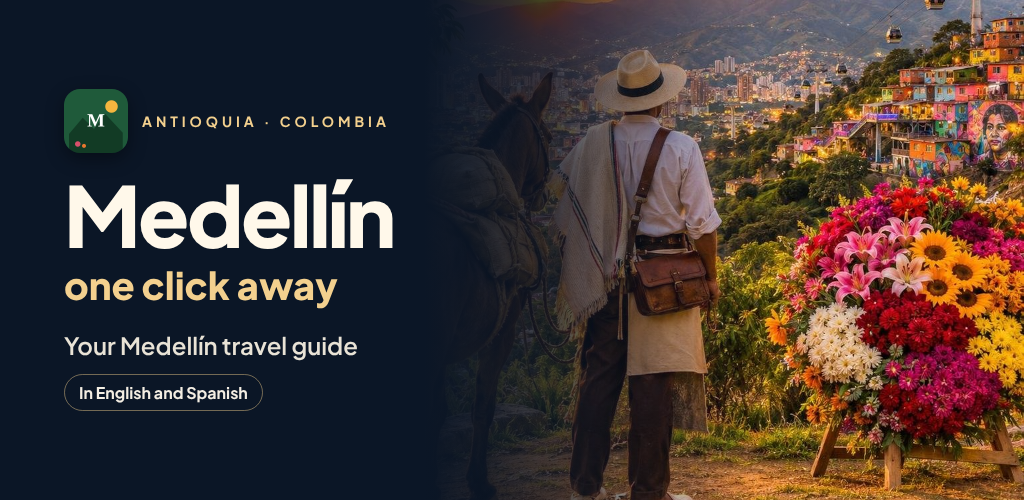
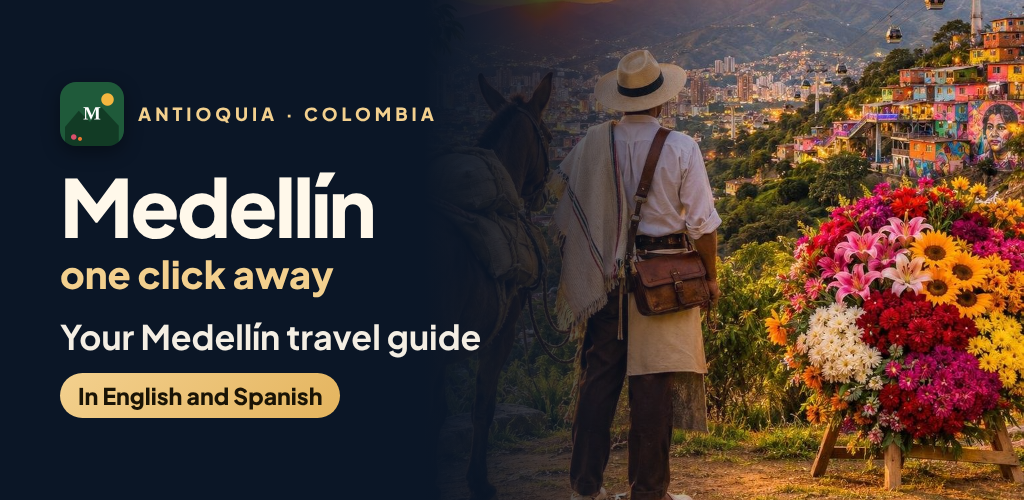
v153: teléfonos de la Embajada en su línea con su nombre; capturas de SOS e imagen destacada rehechas (sin publicar)

Changed region(s): [[0.0625, 0.33, 0.4062, 0.63], [0.0312, 0.63, 0.4688, 0.84], [0.0312, 0.15, 0.4375, 0.33]]

diff --git a/app/index.html b/app/index.html
@@ -458,7 +458,8 @@ html.es-app .js-install{display:none!important}
 .sos-btn,.sos-btn *{text-decoration:none!important}.sos-btn>span{flex:1;min-width:0}.sos-btn small{white-space:normal;overflow-wrap:anywhere}
 .sos-btn span b{display:block;font-size:17px;color:var(--tinta)}
 .sos-btn span b{white-space:normal;overflow-wrap:break-word;line-height:1.25}
-.sos-btn .tel-n{white-space:nowrap} /* cada teléfono completo en una sola línea */ /* el título baja de línea (los enlaces tel: no se parten por defecto) */.sos-btn small{display:block;font-size:13.5px;color:var(--gris);line-height:1.35;margin-top:2px}
+.sos-btn .tel-n{white-space:nowrap} /* cada teléfono completo en una sola línea */
+.sos-btn .tel-l{display:block} /* cada teléfono en su propia línea, con su nombre */ /* el título baja de línea (los enlaces tel: no se parten por defecto) */.sos-btn small{display:block;font-size:13.5px;color:var(--gris);line-height:1.35;margin-top:2px}
 .sos-red{background:linear-gradient(135deg,#B3261E,#8C1D18);border-color:#d4554d}
 .sos-red>b{background:#fff;color:#B3261E}.sos-red small{color:#ffd9d6}.sos-red span b{color:#fff}
 .bar .nav-sos{color:#ff8a80!important}.bar .nav-sos.on{color:#ff6659!important}
@@ -630,7 +631,7 @@ html.es-app .js-install{display:none!important}
   <p class="en">Tap a button to call right away. Calls to 123 and 911 are free, 24/7.</p><p class="es">Toca un botón para llamar de inmediato. Las llamadas al 123 y al 911 son gratis, las 24 horas.</p></div>
   <a class="sos-btn sos-red" href="tel:123"><b>123</b><span><b><span class="en">Emergency line</span><span class="es">Línea de emergencias</span></b><small><span class="en">Police, ambulance and firefighters</span><span class="es">Policía, ambulancia y bomberos</span></small></span></a>
   <a class="sos-btn sos-red" href="tel:911"><b>911</b><span><b><span class="en">Help in your language</span><span class="es">Ayuda en tu idioma</span></b><small><span class="en">For foreigners: goes to 123 with a bilingual operator</span><span class="es">Para extranjeros: pasa al 123 con una persona bilingüe</span></small></span></a>
-  <a class="sos-btn" href="tel:+576012752000"><b><svg viewBox="0 0 24 24" width="26" height="26" fill="none" stroke="currentColor" stroke-width="2" stroke-linecap="round" stroke-linejoin="round" aria-hidden="true"><path d="M3 10 12 4l9 6"/><path d="M4 10h16"/><path d="M6 10v8"/><path d="M10 10v8"/><path d="M14 10v8"/><path d="M18 10v8"/><path d="M3 21h18"/><path d="M4 18h16"/></svg></b><span><b><span class="en">U.S. Embassy in Bogotá</span><span class="es">Embajada de EE. UU. en Bogotá</span></b><small><span class="tel-n">+57 601 275 2000</span> · <span class="en">after hours</span><span class="es">fuera de horario</span> <span class="tel-n">+57 601 275 4021</span></small></span></a>
+  <a class="sos-btn" href="tel:+576012752000"><b><svg viewBox="0 0 24 24" width="26" height="26" fill="none" stroke="currentColor" stroke-width="2" stroke-linecap="round" stroke-linejoin="round" aria-hidden="true"><path d="M3 10 12 4l9 6"/><path d="M4 10h16"/><path d="M6 10v8"/><path d="M10 10v8"/><path d="M14 10v8"/><path d="M18 10v8"/><path d="M3 21h18"/><path d="M4 18h16"/></svg></b><span><b><span class="en">U.S. Embassy in Bogotá</span><span class="es">Embajada de EE. UU. en Bogotá</span></b><small><span class="tel-l"><span class="en">Main line:</span><span class="es">Línea principal:</span> <span class="tel-n">+57 601 275 2000</span></span><span class="tel-l"><span class="en">After hours:</span><span class="es">Fuera de horario:</span> <span class="tel-n">+57 601 275 4021</span></span></small></span></a>
   <button class="sos-btn sos-loc" type="button" id="sos-loc"><b><svg viewBox="0 0 24 24" width="26" height="26" fill="none" stroke="currentColor" stroke-width="2" stroke-linecap="round" stroke-linejoin="round"><path d="M12 21s-7-6.2-7-11a7 7 0 0 1 14 0c0 4.8-7 11-7 11z"/><circle cx="12" cy="10" r="2.5"/></svg></b><span><b><span class="en">Send my location</span><span class="es">Enviar mi ubicación</span></b><small id="sos-loc-msg"><span class="en">Share where you are by WhatsApp with someone you trust</span><span class="es">Comparte dónde estás por WhatsApp con alguien de confianza</span></small></span></button>
   <a class="sos-btn" href="https://wa.me/573194635142" target="_blank" rel="noopener"><b><svg viewBox="0 0 24 24" width="26" height="26" fill="none" stroke="currentColor" stroke-width="2" stroke-linecap="round" stroke-linejoin="round"><path d="M3 17h2l2-6h10l2 6h2"/><circle cx="7.5" cy="17.5" r="1.5"/><circle cx="16.5" cy="17.5" r="1.5"/></svg></b><span><b><span class="en">Your trusted transportation</span><span class="es">Tu transporte de confianza</span></b><small><span class="en">Paola Tobón · WhatsApp</span><span class="es">Paola Tobón · WhatsApp</span></small></span></a>
   <div class="box"><h3 class="en">What to say when you call</h3><h3 class="es">Qué decir cuando llames</h3>

diff --git a/app/sw.js b/app/sw.js
@@ -1,5 +1,5 @@
 // Cambie este número cada vez que publique una versión nueva.
-const VERSION = 'medellin-v152';
+const VERSION = 'medellin-v153';
 const BASE = VERSION + '-base';
 const FOTOS = VERSION + '-fotos';
 const FILES = ['./', './index.html', './manifest.json', './icon.svg', './portada.jpg', './apple-touch-icon.png', './icon-192.png', './icon-512.png'];

diff --git a/CLAUDE.md b/CLAUDE.md
@@ -59,9 +59,11 @@ Cambios de la v150 (sobre la v149):
 
 Versión anterior: v149 (`medellin-lock-1795281462731`).
 
-**Lista para el próximo .zip de Netlify (v152, sin publicar; incluye la v151):**
-- SOS: cada teléfono de la Embajada queda completo en una sola línea (clase `tel-n`, `white-space:nowrap`),
-  en los dos idiomas y en celulares pequeños. Captura de SOS en inglés rehecha.
+**Lista para el próximo .zip de Netlify (v153, sin publicar; incluye la v151 y la v152):**
+- SOS: cada teléfono de la Embajada va en su propia línea con su nombre ("Línea principal:" / "Fuera de horario:";
+  "Main line:" / "After hours:"; clase `tel-l`) y ningún número se parte (clase `tel-n`). En celulares pequeños el
+  nombre queda arriba de su número. El botón entero llama a la línea principal.
+- Capturas de SOS (español e inglés) rehechas. Imagen destacada con frases más grandes (`tienda/destacada/`).
 - Sin emojis en la app: la bandera de EE. UU. del botón de la Embajada (SOS) es ahora un ícono de línea (edificio con
   columnas) y el 📍 del botón "Cerca de mí" del menú es un pin de línea, del mismo estilo que los demás íconos.
 - Se quedan como están, por decisión de María: ♡/♥ (favoritos), las flechas ← → de navegación y el 💛 del mensaje

diff --git a/LEEME-PRIMERO.md b/LEEME-PRIMERO.md
@@ -59,9 +59,11 @@ Cambios de la v150 (sobre la v149):
 
 Versión anterior: v149 (`medellin-lock-1795281462731`).
 
-**Lista para el próximo .zip de Netlify (v152, sin publicar; incluye la v151):**
-- SOS: cada teléfono de la Embajada queda completo en una sola línea (clase `tel-n`, `white-space:nowrap`),
-  en los dos idiomas y en celulares pequeños. Captura de SOS en inglés rehecha.
+**Lista para el próximo .zip de Netlify (v153, sin publicar; incluye la v151 y la v152):**
+- SOS: cada teléfono de la Embajada va en su propia línea con su nombre ("Línea principal:" / "Fuera de horario:";
+  "Main line:" / "After hours:"; clase `tel-l`) y ningún número se parte (clase `tel-n`). En celulares pequeños el
+  nombre queda arriba de su número. El botón entero llama a la línea principal.
+- Capturas de SOS (español e inglés) rehechas. Imagen destacada con frases más grandes (`tienda/destacada/`).
 - Sin emojis en la app: la bandera de EE. UU. del botón de la Embajada (SOS) es ahora un ícono de línea (edificio con
   columnas) y el 📍 del botón "Cerca de mí" del menú es un pin de línea, del mismo estilo que los demás íconos.
 - Se quedan como están, por decisión de María: ♡/♥ (favoritos), las flechas ← → de navegación y el 💛 del mensaje
